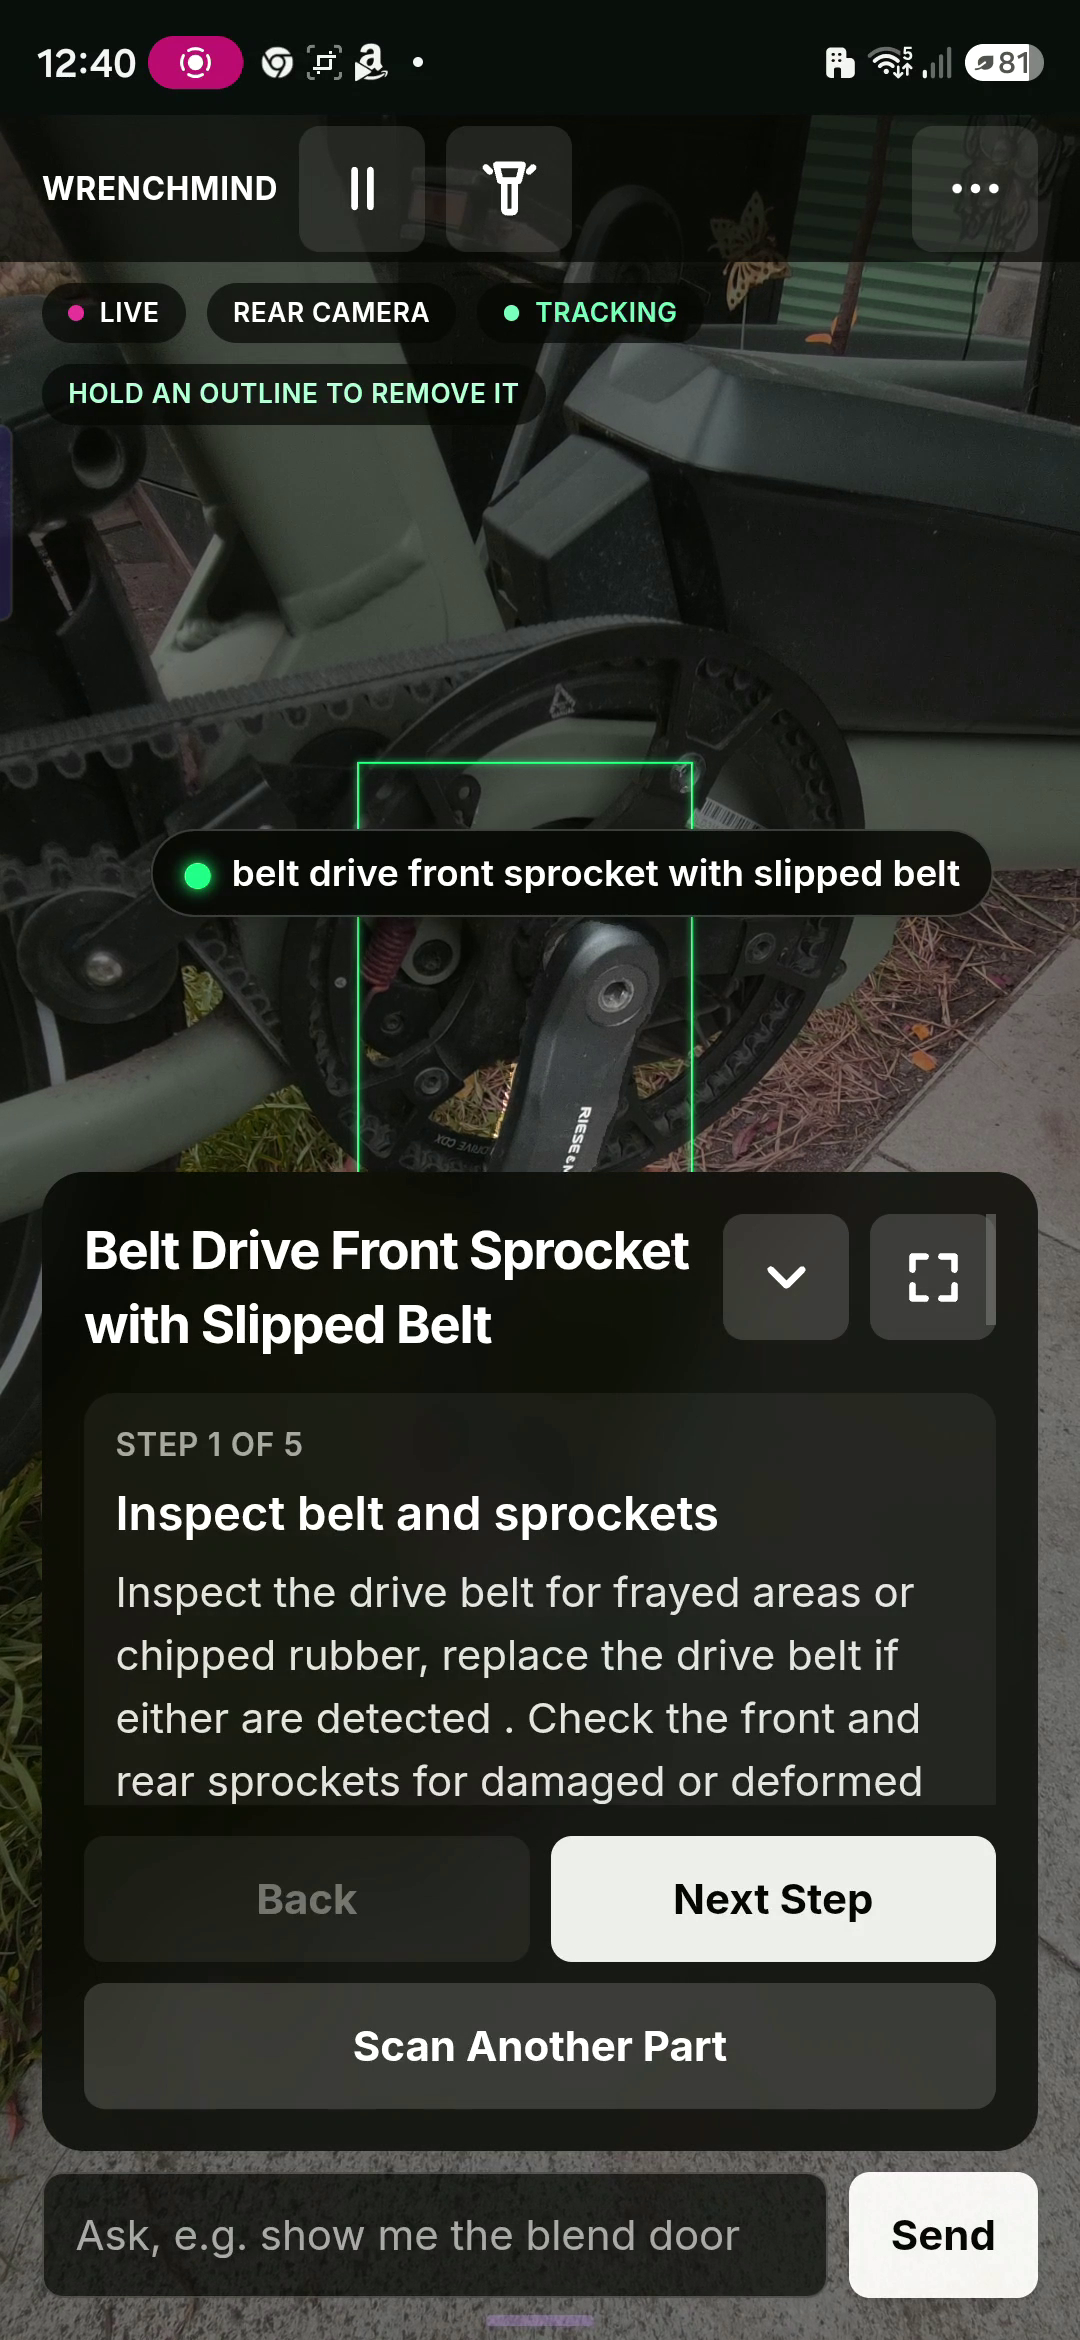
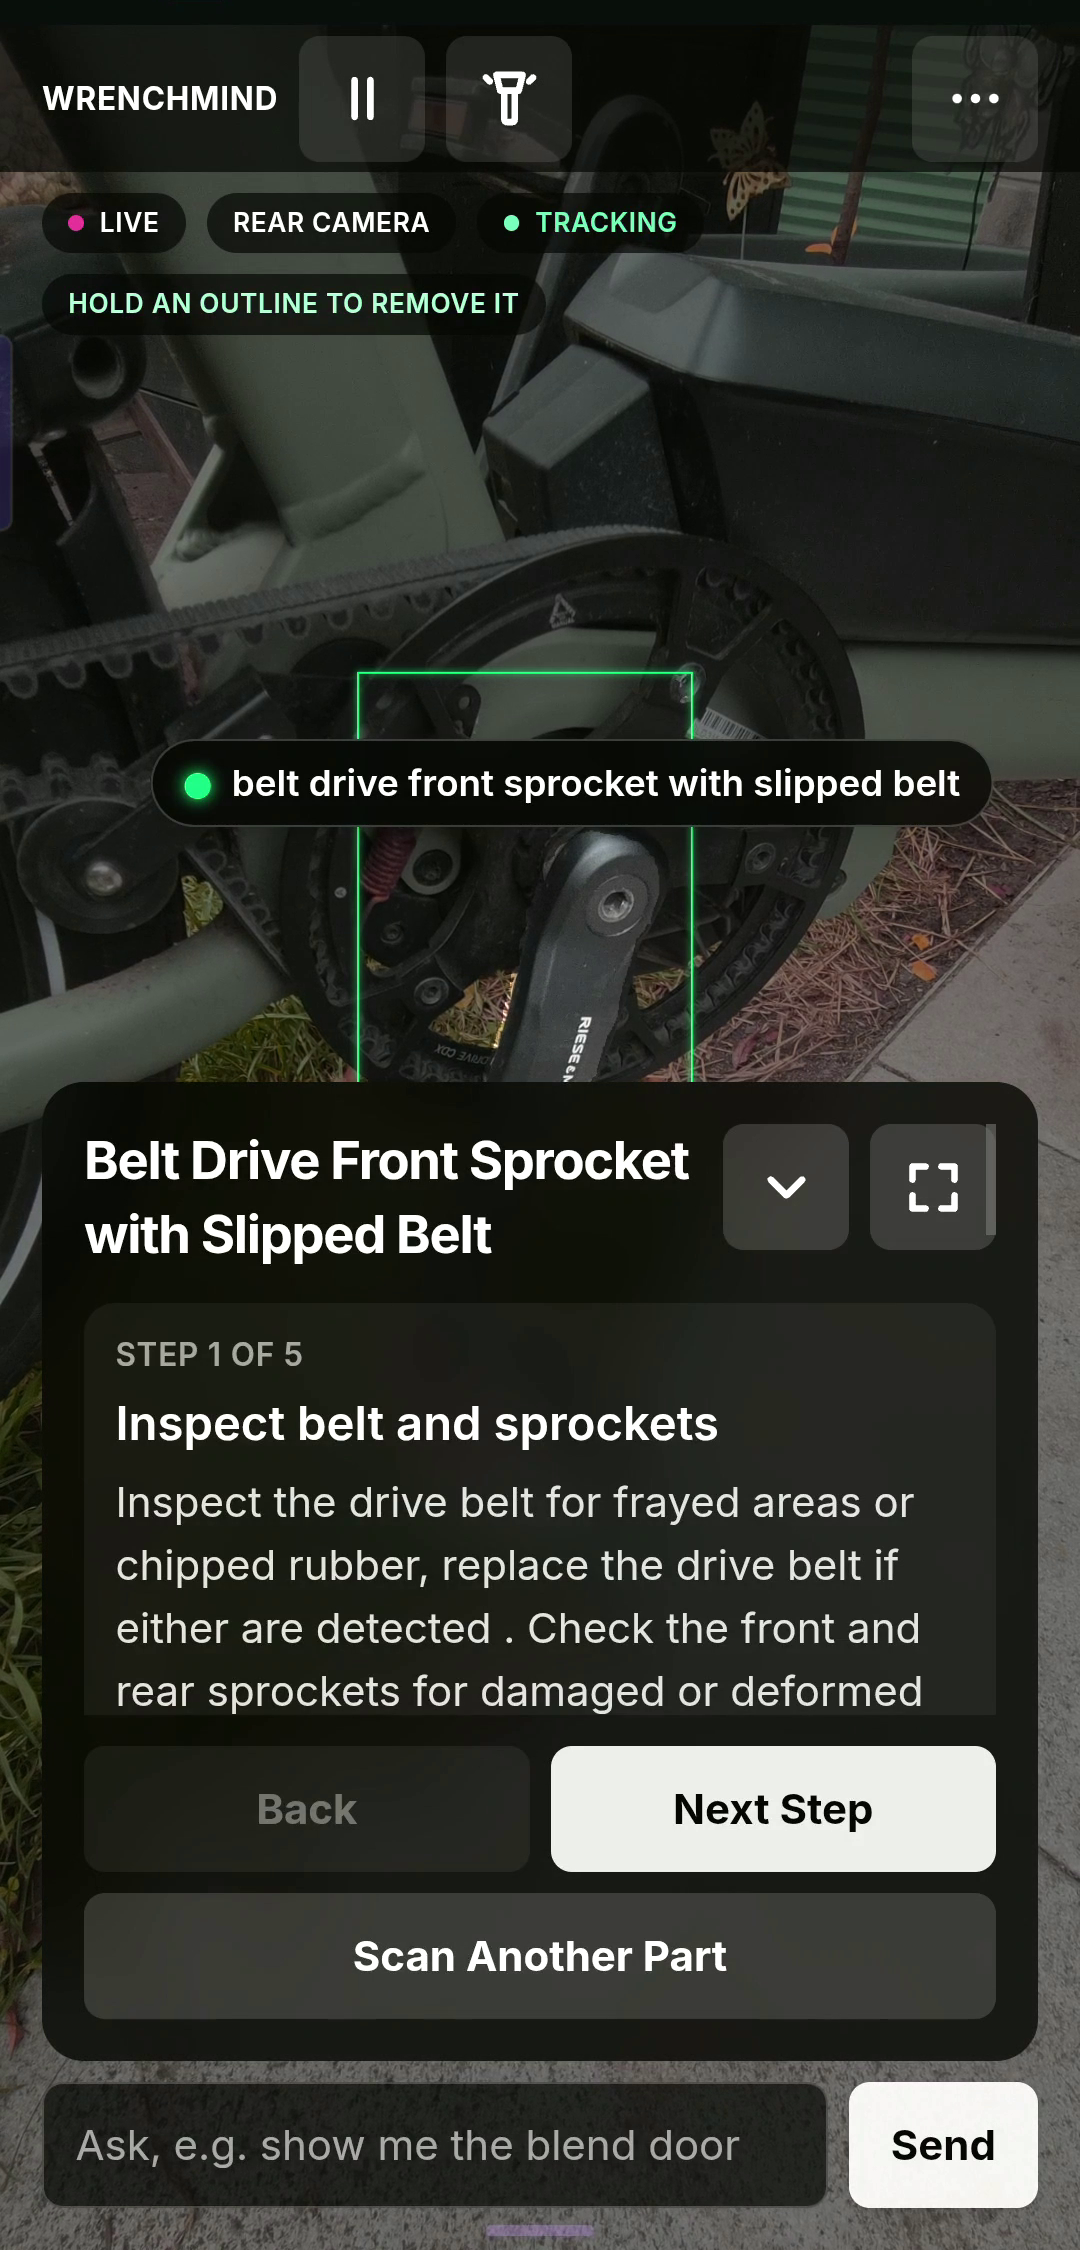
Polish README with Shorts link, add demo hero GIF

Changed region(s): [[0.0, 0.0, 1.0, 0.9644], [0.9472, 0.8089, 1.0, 0.84]]

diff --git a/README.md b/README.md
@@ -12,6 +12,8 @@ What it does:
 
 **Live demo:** https://soulsplit.github.io/wrenchmind/
 
+**Watch the demo:** https://www.youtube.com/shorts/GKA8VuOoLvE
+
 ## Demo
 
 Ask a question, get an AR outline plus a repair card:
@@ -20,7 +22,9 @@ Ask a question, get an AR outline plus a repair card:
 
 The full flow, from question to guided steps:
 
-![Full demo flow: ask, outline, repair steps](https://github.com/soulsplit/wrenchmind/releases/download/v0.1.6/demo-full-flow.gif)
+[![Full demo flow: ask, outline, repair steps](docs/demo-full-flow.gif)](https://www.youtube.com/shorts/GKA8VuOoLvE)
+
+Prefer video? The same flow is on YouTube Shorts: https://www.youtube.com/shorts/GKA8VuOoLvE
 
 Freeze the frame to circle parts at your own pace; typing runs the same pipeline as voice:
 
